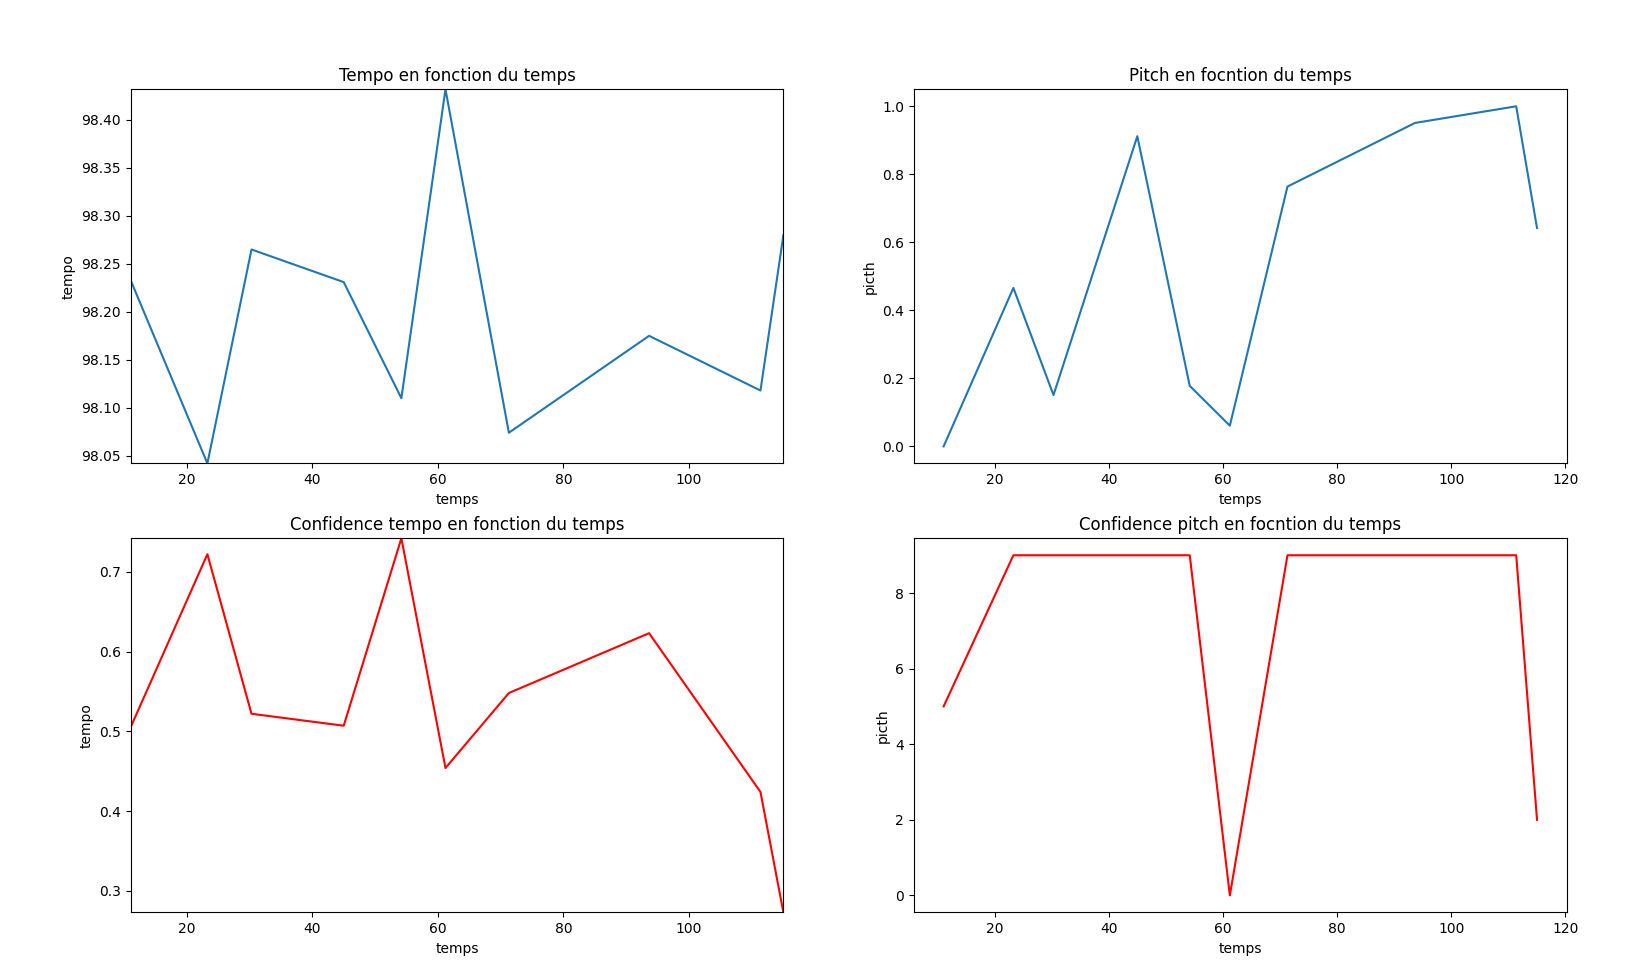
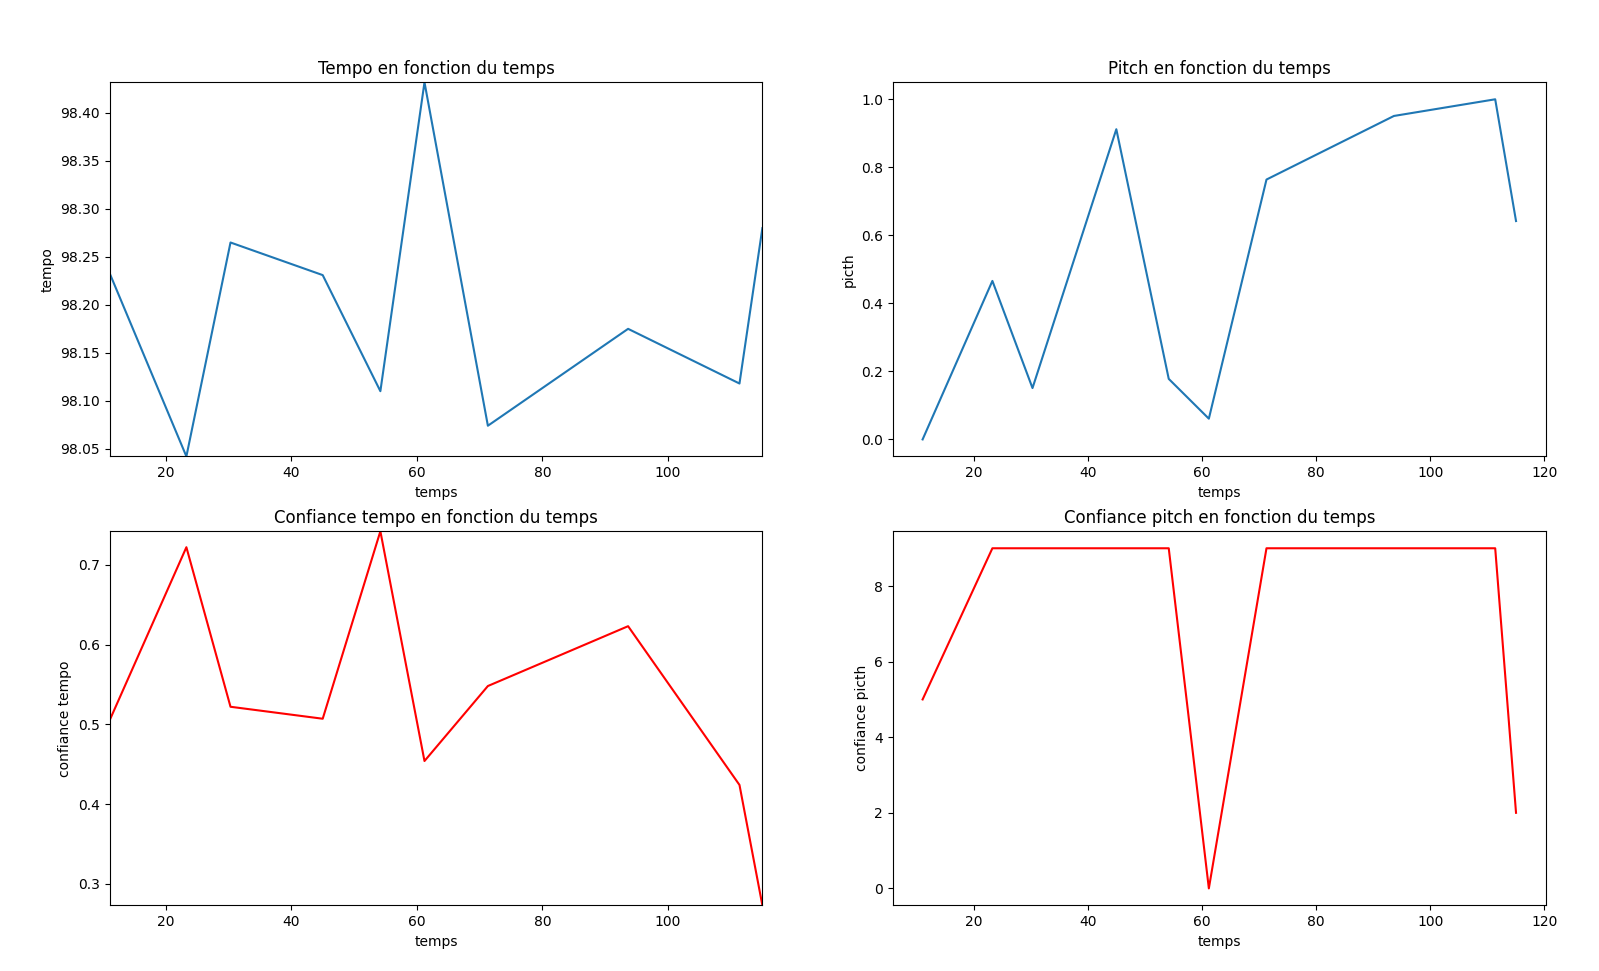
correction orthographe

diff --git a/main.py b/main.py
@@ -45,23 +45,23 @@ def main(res):
     plt.plot(x,tempos)
 
     plt.subplot(223)
-    plt.title("Confidence tempo en fonction du temps")
+    plt.title("Confiance tempo en fonction du temps")
     plt.xlabel('temps')
-    plt.ylabel('tempo')
+    plt.ylabel('confiance tempo')
     plt.axis([np.min(x),np.max(x) ,np.min(tempos_conf),np.max(tempos_conf)])
     plt.plot(x,tempos_conf,'r')
 
     plt.subplot(222)
-    plt.title('Pitch en focntion du temps')
+    plt.title('Pitch en fonction du temps')
     plt.xlabel('temps')
     plt.ylabel('picth')
     plt.plot(x,notes)
 
     plt.subplot(224)
     plt.plot(x,notes_conf,'r')
-    plt.title('Confidence pitch en focntion du temps')
+    plt.title('Confiance pitch en fonction du temps')
     plt.xlabel('temps')
-    plt.ylabel('picth')
+    plt.ylabel('confiance picth')
 
     plt.show()
 
